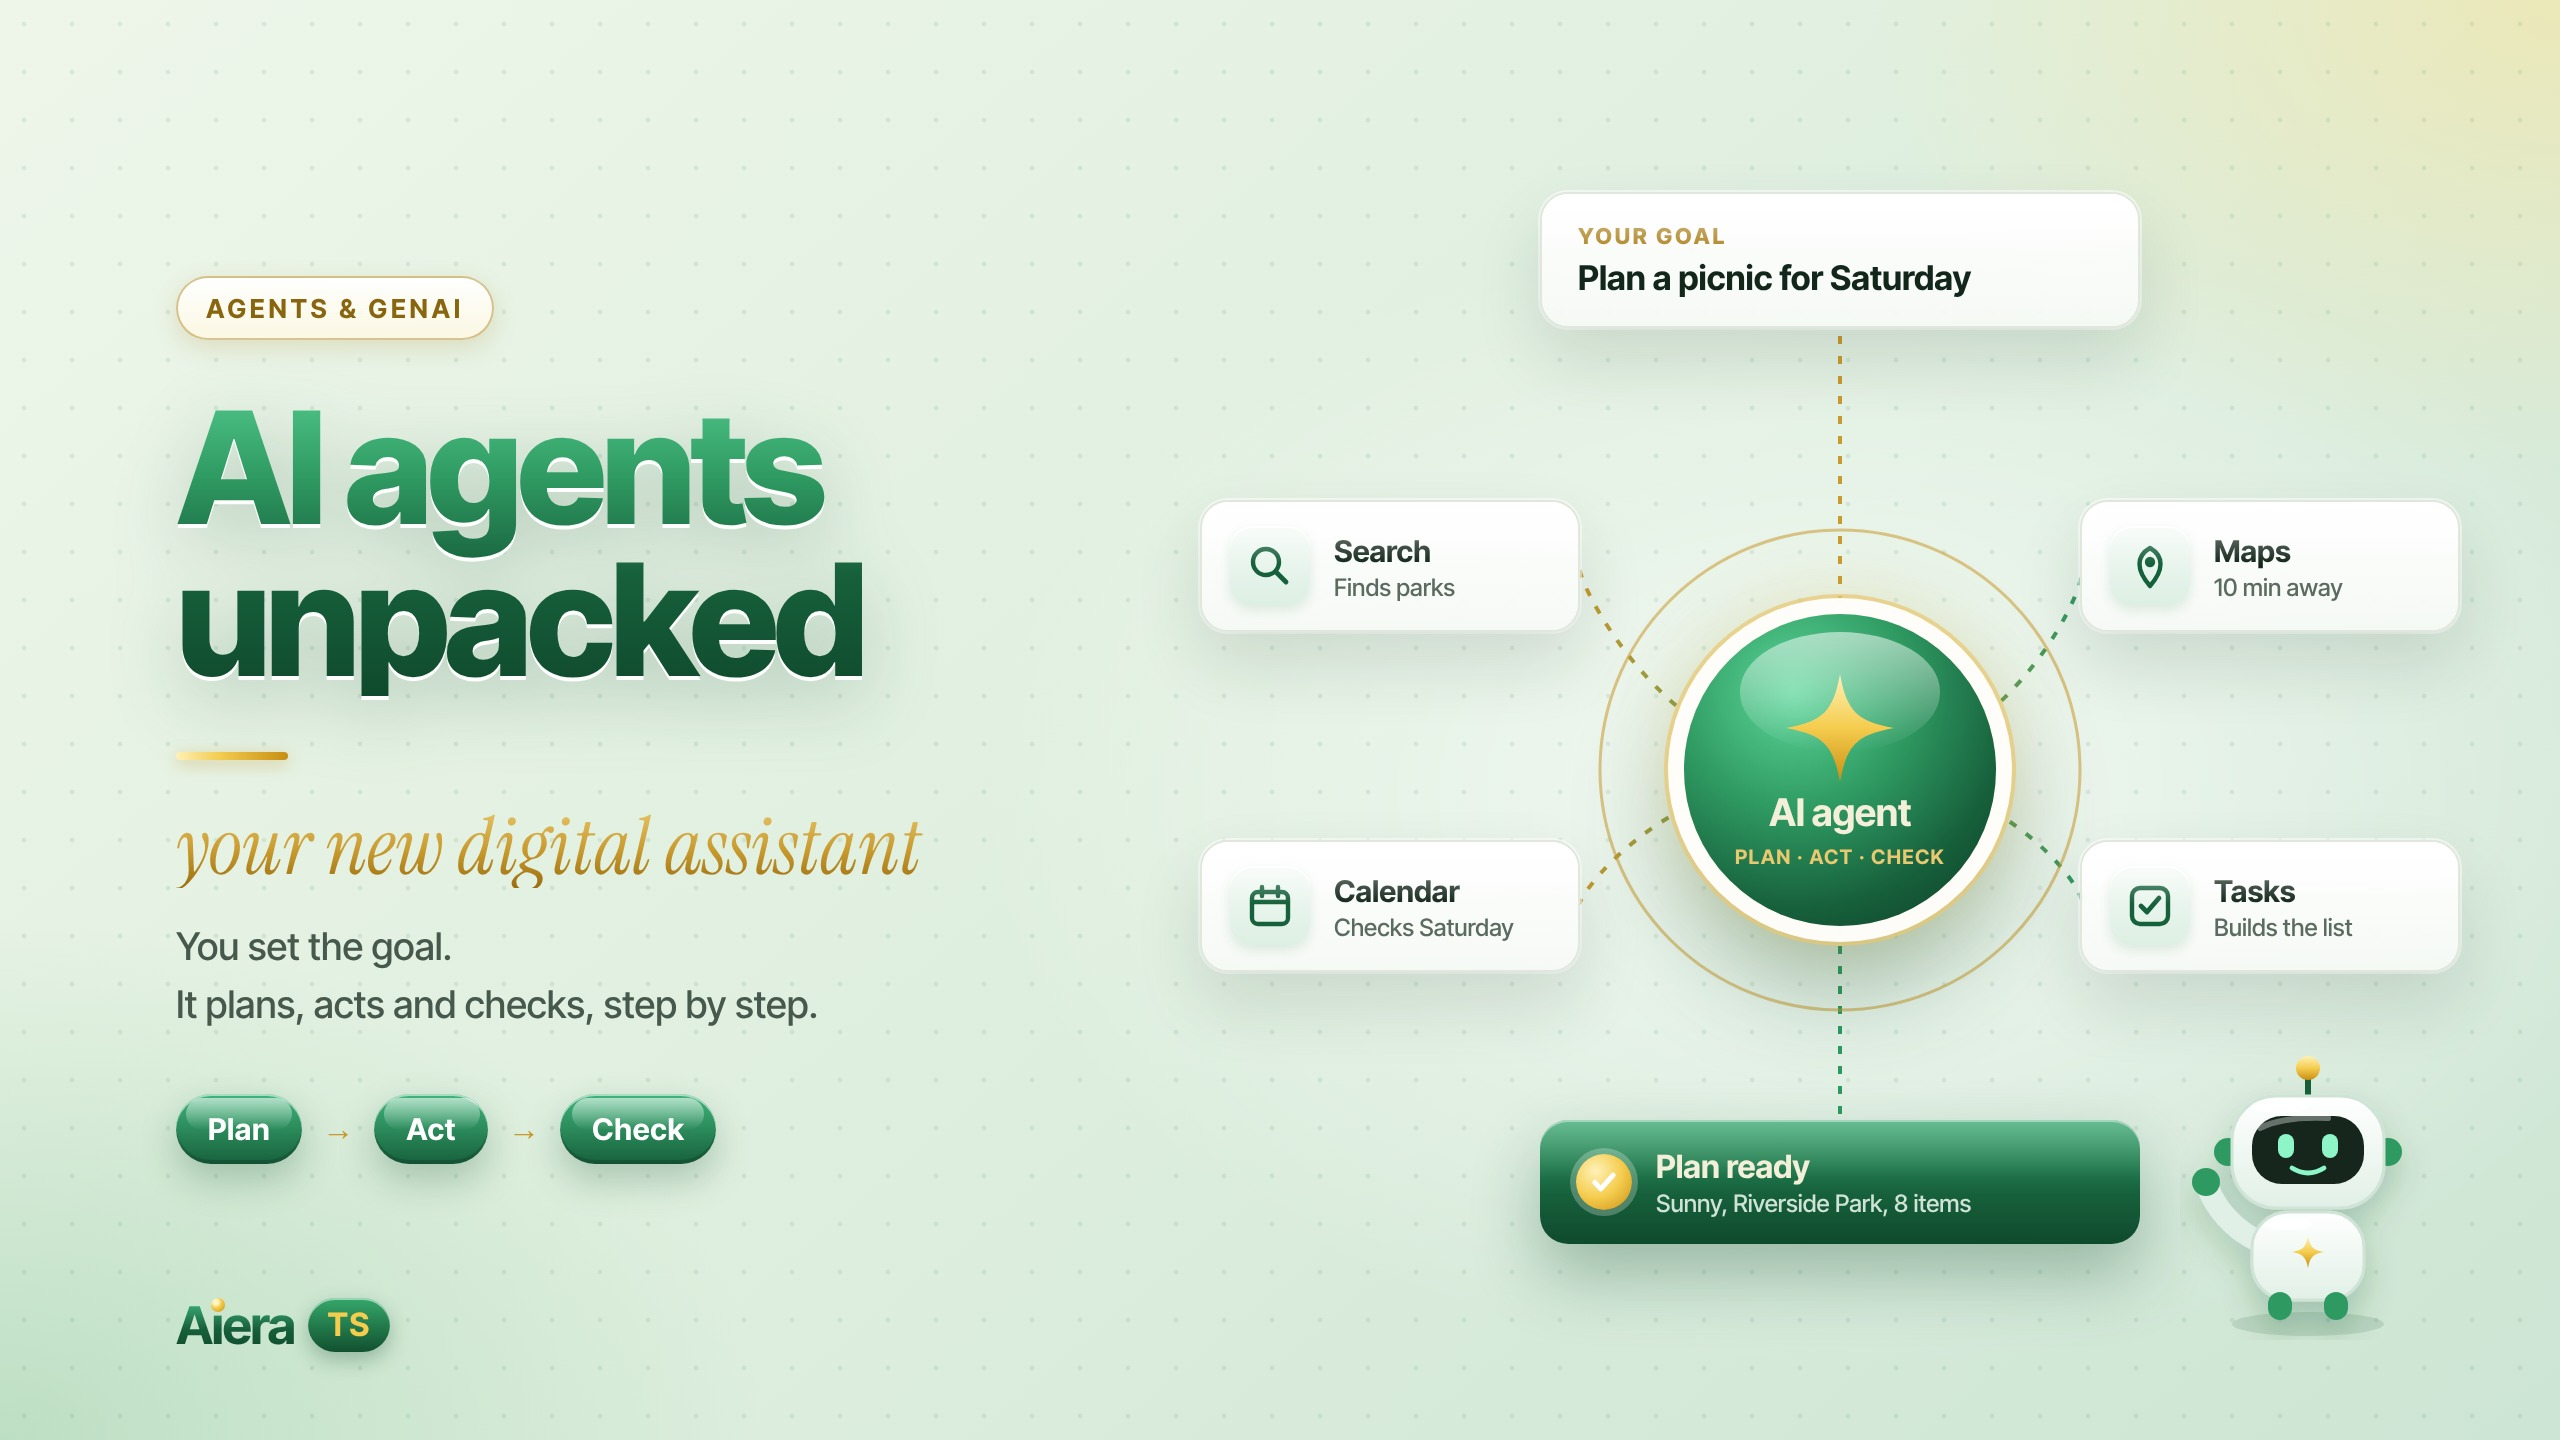
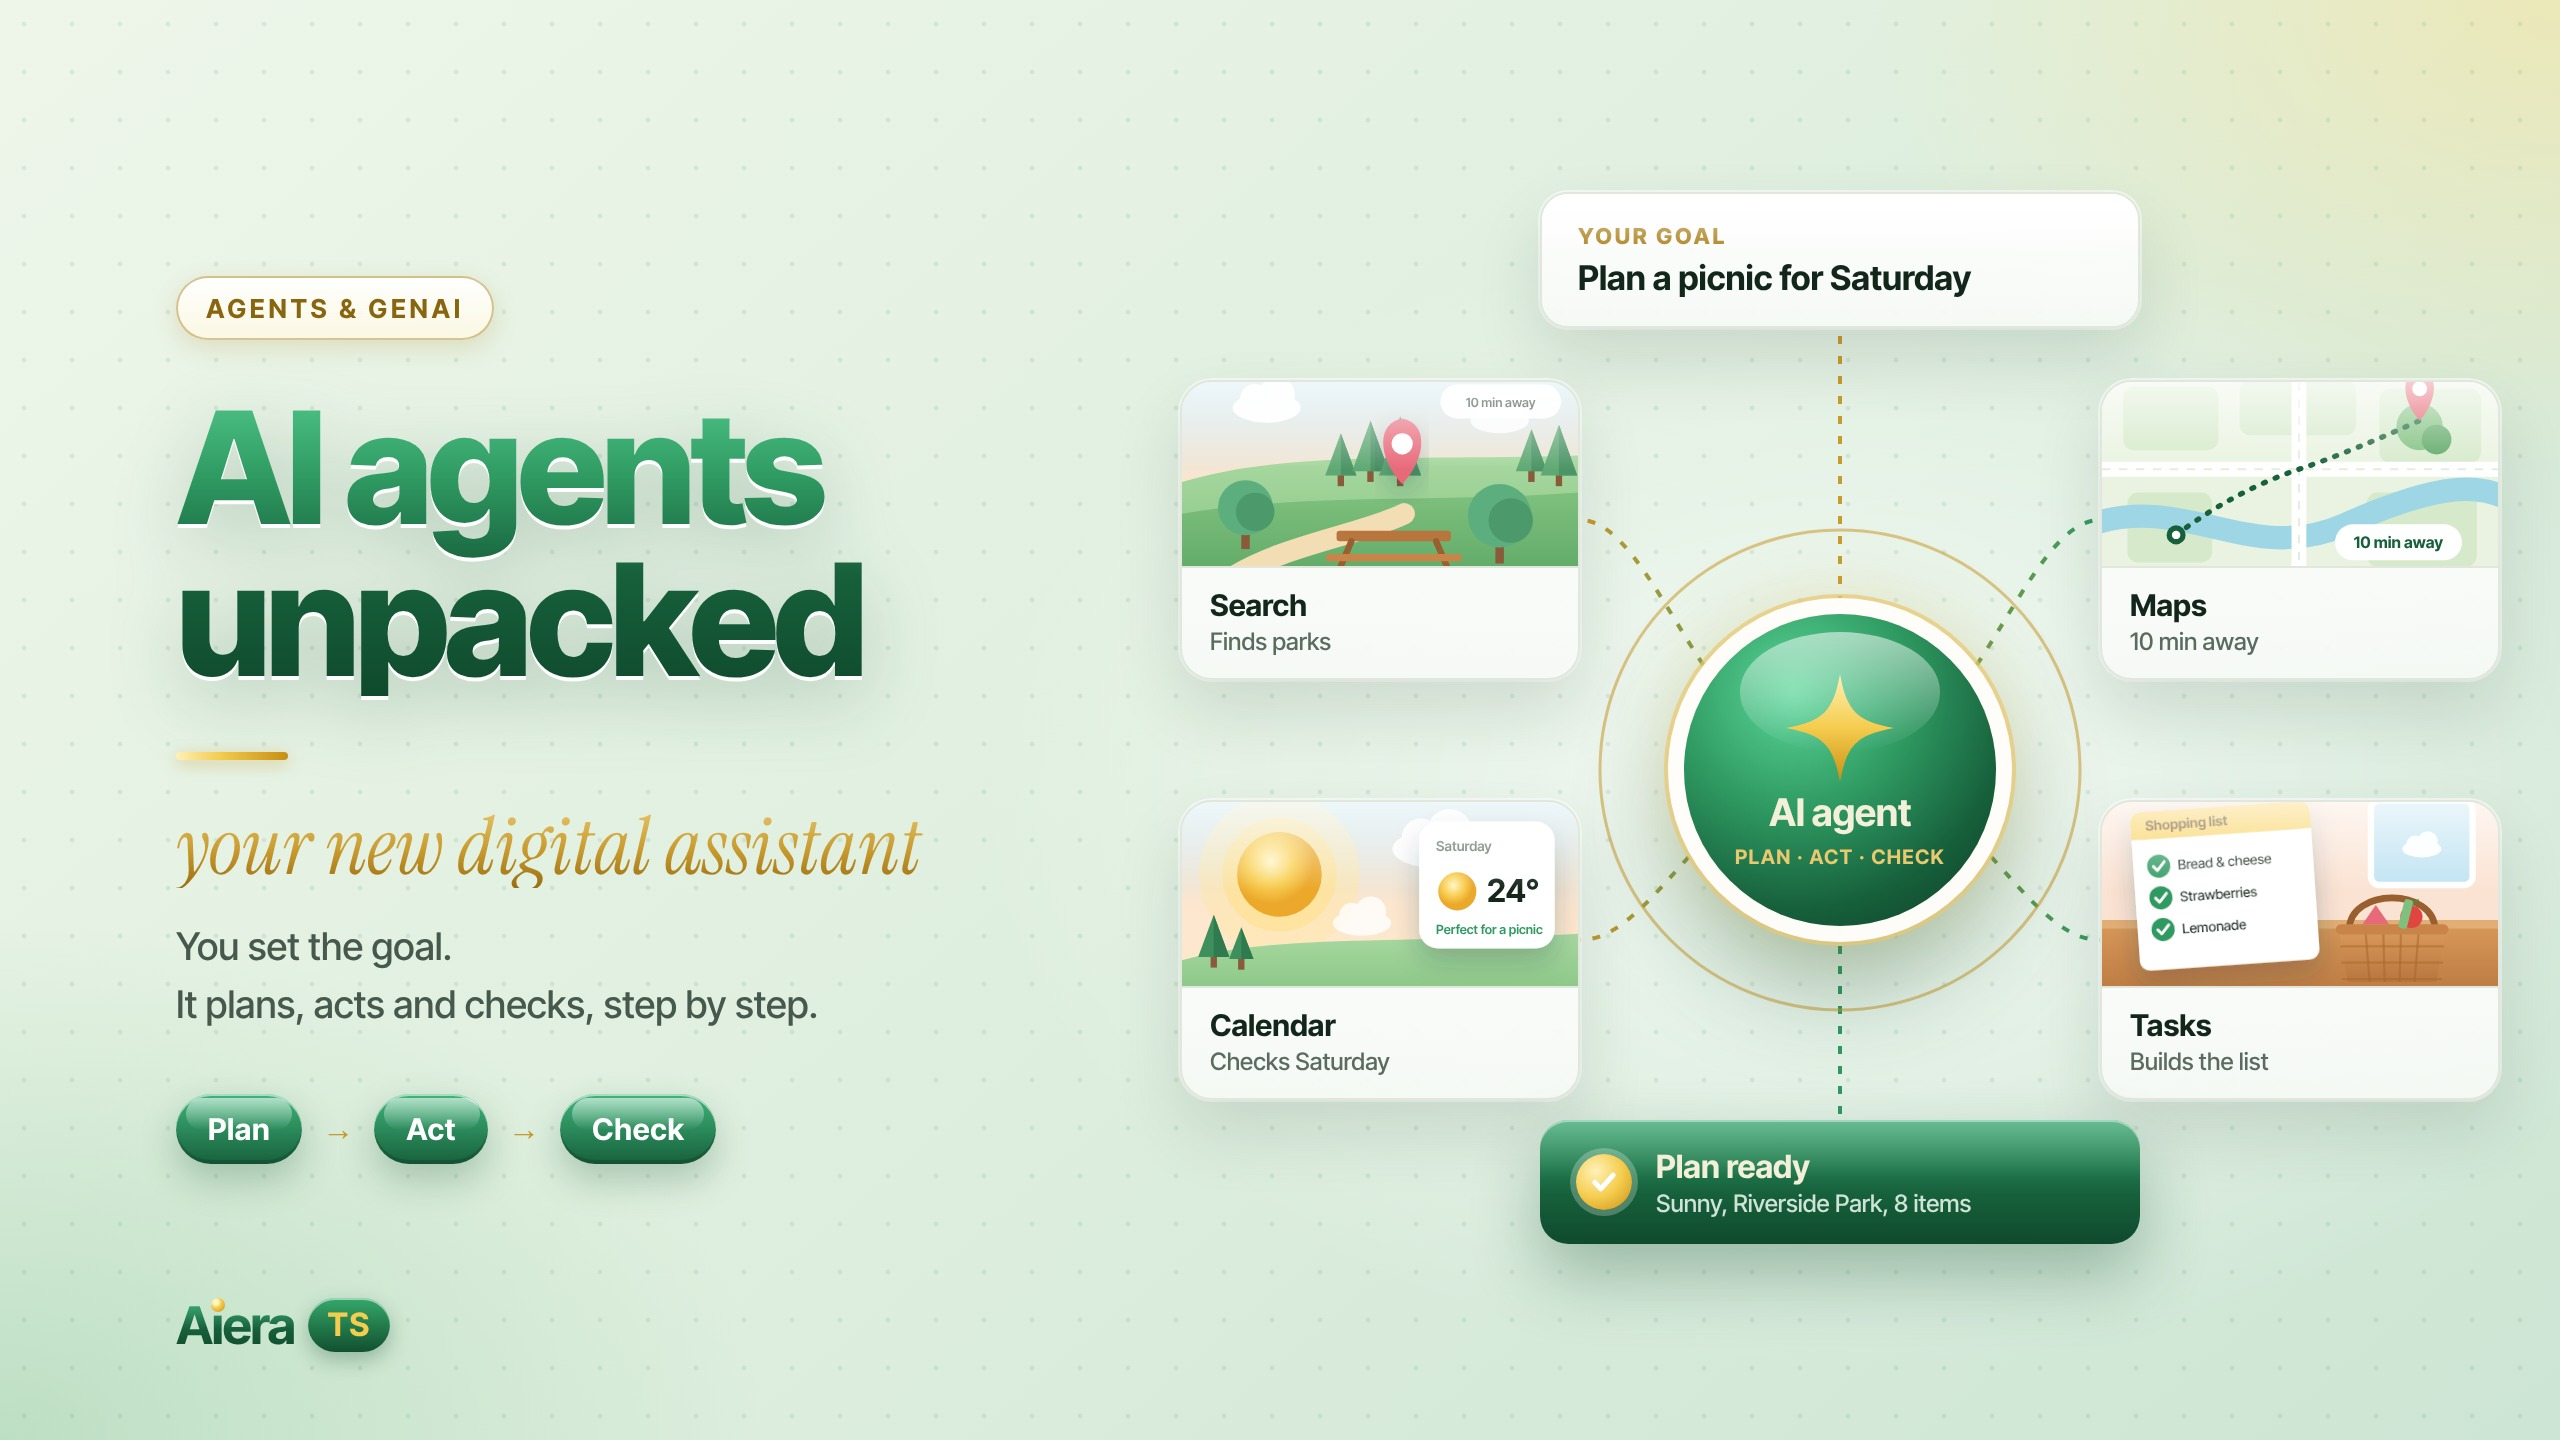
AI agents cover: picture cards for each tool, robot removed
Claude-Session: https://claude.ai/code/session_011joVF6bbyZDhpZpCEdrVDq

diff --git a/src/content/posts/what-is-agentic-ai.md b/src/content/posts/what-is-agentic-ai.md
@@ -6,7 +6,7 @@ topic: "Agents & GenAI"
 level: Beginner
 featured: true
 cover: /images/cover-agentic.jpg
-coverAlt: "A clean, glossy, professional cover on a soft sage-green background. On the left: the headline 'AI agents unpacked', a gold line, 'your new digital assistant', 'You set the goal. It plans, acts and checks, step by step.' and three buttons, Plan, Act and Check. On the right, a diagram of how an AI agent works: a goal card reading 'Plan a picnic for Saturday' flows into a green AI agent core, which connects to four tool cards (Search, Calendar, Maps and Tasks) and produces a result card reading 'Plan ready: sunny, Riverside Park, 8 items', beside a small, friendly green and white robot waving."
+coverAlt: "A clean, glossy cover on a soft sage-green background. On the left: the headline 'AI agents unpacked', a gold line, 'your new digital assistant', 'You set the goal. It plans, acts and checks, step by step.' and three buttons, Plan, Act and Check. On the right, a diagram of how an AI agent works: a goal card reading 'Plan a picnic for Saturday' flows into a green AI agent core, connected to four picture cards: Search (a park with a map pin and picnic table), Calendar (a sunny 24° Saturday forecast), Maps (a route map, 10 minutes away) and Tasks (a ticked shopping list beside a basket). A result card reads 'Plan ready: sunny, Riverside Park, 8 items'."
 takeaways:
   - "Generative AI answers a prompt; an AI agent works towards a goal through many steps."
   - "Agents follow a simple loop: plan, act with tools, check the result, repeat."
